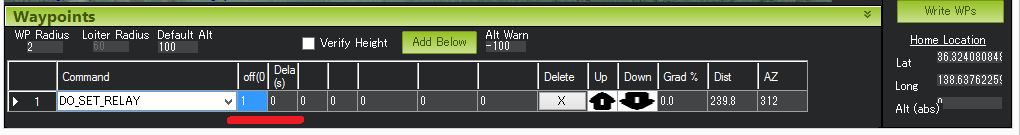
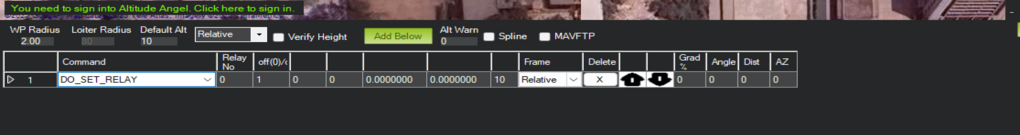
Copter: update DO_SET_RELAY screenshot and docs
Updated screenshot to current Mission Planner interface and removed
outdated note about mislabeled columns.

Fixes #7277

diff --git a/copter/source/docs/mission-command-list.rst b/copter/source/docs/mission-command-list.rst
@@ -380,12 +380,11 @@ Do-Set-Relay
 .. image:: ../../../images/MissionList_DoSetRelay.png
     :target: ../_images/MissionList_DoSetRelay.png
 
-Set a :ref:`Relay <common-relay>` pin's voltage high or low.  The
-columns are mislabeled in the Mission Planner (issue here).
+Set a :ref:`Relay <common-relay>` pin's voltage high or low.
 
-**First column is Relay number** : 0 = First Relay, 1 = Second Relay
+**Relay No** : 0 = First Relay, 1 = Second Relay
 
-**Second column is On/Off** : 0 = Off (i.e. 0V), 1 = On (i.e. 3.3V on
+**off(0)/On(1)** : 0 = Off (i.e. 0V), 1 = On (i.e. 3.3V on
 most autopilots)
 
 Do-Repeat-Relay
